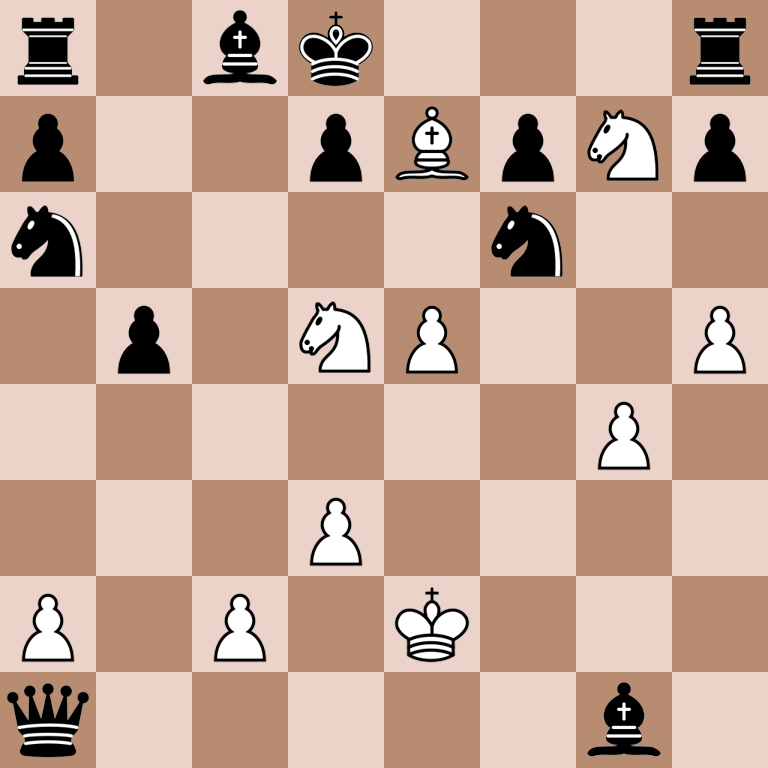
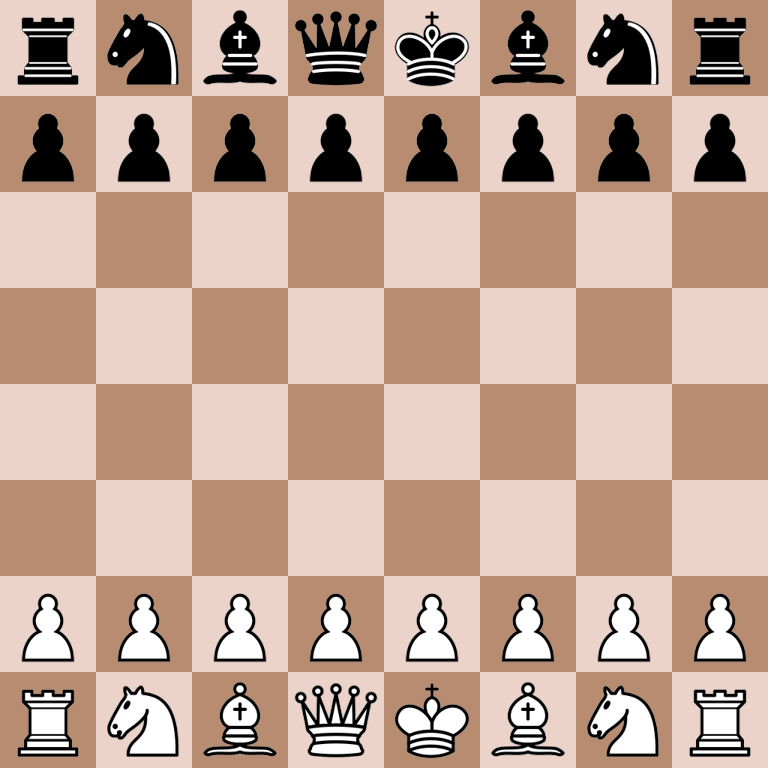
Read Me update

diff --git a/ChessBot/chess_bot.py b/ChessBot/chess_bot.py
@@ -2,6 +2,6 @@ from chess_setups import ChessBoard
 from board_renderer import draw_board
 
 board = ChessBoard()
-board.debug_board()
+board.default_board_start()
 
 draw_board(board)

diff --git a/README.md b/README.md
@@ -1,2 +1,10 @@
 # Chess-Bot
-Python Chess Bot
+A simple Python Chess Bot
+
+Uses (Sebastian Lague's Chess Code Adventure)[https://youtu.be/U4ogK0MIzqk?list=PLFt_AvWsXl0cvHyu32ajwh2qU1i6hl77c] as a guide  
+
+Art assets are from:  
+https://greenchess.net/info.php?item=downloads  
+https://creativecommons.org/licenses/by-sa/3.0/deed.en  
+
+
